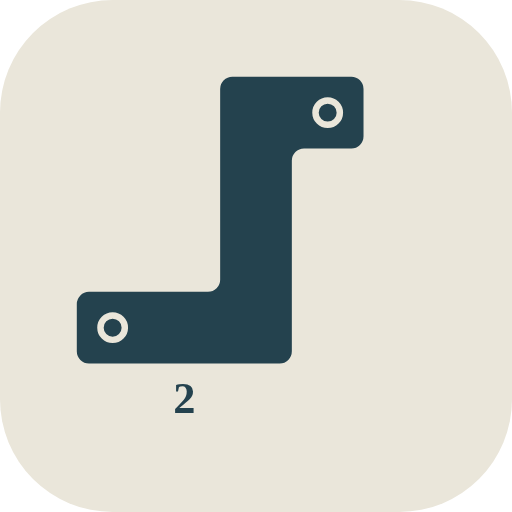
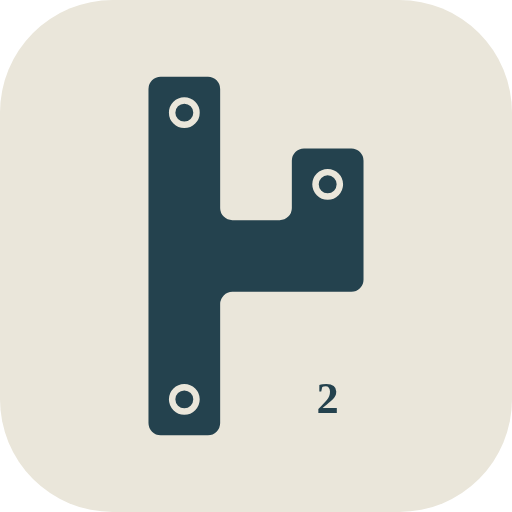
rill: tributaries, not a snake
A tree with two springs is a bare path, and the first boards read as
exactly that — one long corridor with an endpoint at each end, which
is a strange thing to call water. The rules already allowed branching;
the grower just priced forks too dearly. Now it grows toward a spring
quota (three or more, scaled with the board), welcomes a fork while
short of it, and the scorer rewards springs spread wide — so the rill
is a watershed of tributaries joining one flow, and the readings
triangulate between springheads instead of asking which of two ends
is nearer. Launcher mark and the first two rules diagrams redrawn as
the branchy shapes they teach, verified as always. Uniqueness re-run:
12 of 12 small-book boards brute-force confirmed.

Claude-Session: https://claude.ai/code/session_01DvYAhixLN4kDYLo16jZxbQ

Changed region(s): [[0.125, 0.125, 0.7188, 0.875], [0.625, 0.75, 0.6562, 0.8125]]

diff --git a/rill/index.html b/rill/index.html
@@ -14,7 +14,7 @@
 <meta name="theme-color" content="#131a1d" media="(prefers-color-scheme: dark)" />
 <title>Rill</title>
 <meta name="description" content="Rill — a spring-hunting puzzle. Water may run right past a number; it can never stop nearby. Every board generated on your phone and proved solvable without guessing." />
[2 lines of base64/hex data omitted]
 <link rel="manifest" href="manifest.webmanifest" />
 <link rel="apple-touch-icon" href="icon-180.png" />
 <style>
@@ -837,7 +837,7 @@ function RillCore() {
      place, which keeps it loop-free by construction. Long runs are
      preferred to stubs, so springs stay scarce; a gentle pull toward
      untouched rows and columns spreads the water over the board. */
-  function growVein(G, rnd, target) {
+  function growVein(G, rnd, target, targetSprings) {
     var N = G.N;
     var inTree = new Uint8Array(N * N);
     var touch = new Uint8Array(N * N);
@@ -852,12 +852,18 @@ function RillCore() {
 
     var guard = 0;
     while (size < target && guard++ < 4000) {
+      /* springs so far: tree cells with at most one tree neighbour */
+      var springsNow = 0;
+      for (var q = 0; q < N * N; q++) if (inTree[q] && deg[q] <= 1) springsNow++;
+      /* short of springs, a fork is welcome; at quota it costs dearly */
+      var forkCost = springsNow < targetSprings ? 0.35 : 3.2;
+
       var cands = [], scores = [], best = 1e9;
       for (var k = 0; k < N * N; k++) {
         if (inTree[k] || touch[k] !== 1) continue;
         var nbk = neighbors(G, k), parent = -1;
         for (var j = 0; j < nbk.length; j++) if (inTree[nbk[j]]) parent = nbk[j];
-        var branchy = deg[parent] >= 2 ? 2.2 : 0;
+        var branchy = deg[parent] >= 2 ? forkCost : 0;
         var s = branchy + (rowN[(k / N) | 0] + colN[k % N]) * 0.26 + rnd() * 1.3;
         cands.push(k); scores.push(s);
         if (s < best) best = s;
@@ -944,8 +950,19 @@ function RillCore() {
     var open = fin.firstGain / cells;
     var chain = Math.min(1, fin.rounds / 22);
 
+    var springs = veinInfo(G, new Set(regionArr)).springs, minPair = 1e9;
+    for (var a = 0; a < springs.length; a++) {
+      for (var b = a + 1; b < springs.length; b++) {
+        var d = Math.abs(((springs[a] / N) | 0) - ((springs[b] / N) | 0)) +
+                Math.abs((springs[a] % N) - (springs[b] % N));
+        if (d < minPair) minPair = d;
+      }
+    }
+    var spreadF = Math.min(1, minPair / N);
+
     return {
-      score: -5.2 * open + 2.2 * chain - 2.6 * clueF + 0.9 * (deep / n) + 2.0,
+      score: -5.2 * open + 2.2 * chain - 2.6 * clueF + 0.9 * (deep / n)
+             + 1.2 * spreadF + 2.0,
       level: fin.level, hard: fin.hard, order: fin.order,
       first: fin.firstGain, rounds: fin.rounds, clueCount: n
     };
@@ -965,14 +982,16 @@ function RillCore() {
     var pass = 0;
     for (;;) {
     for (var t = 0; t < veins; t++) {
-      var density = 0.22 + rnd() * 0.08;
+      var density = 0.24 + rnd() * 0.08;
       var target = Math.round(N * N * density);
-      var region = growVein(G, rnd, target);
+      var targetSprings = 3 + ((rnd() * (N / 3.5)) | 0);
+      var region = growVein(G, rnd, target, targetSprings);
       if (region.size < Math.max(4, target * 0.75)) continue;
 
       var info = veinInfo(G, region);
-      if (!info.ok || info.springs.length < 2) continue;
-      if (info.springs.length > Math.max(3, Math.round(region.size * 0.30))) continue;
+      /* a two-spring tree is a bare path; the rill wants tributaries */
+      if (!info.ok || info.springs.length < 3) continue;
+      if (info.springs.length > Math.max(4, Math.round(region.size * 0.34))) continue;
 
       /* the rill must touch every row and column */
       var rw = new Array(N).fill(0), cw = new Array(N).fill(0);
@@ -2517,17 +2536,17 @@ function RillCore() {
     row("One rill, never looping",
         "All the water is one vein, and between any two water cells there is exactly one way along it.",
         function (cv) {
-          var set = new Set([0, 5, 10, 11, 12, 17, 22, 23, 24]);
+          var set = new Set([10, 11, 12, 7, 2, 13, 17, 22]);
           paint(cv, { N: 5, bleed: true, showGrid: true,
             isWater: function (r, c) { return set.has(r * 5 + c); } });
         });
     row("Where it stops, a spring",
         "Every end of the rill is a springhead welling out of the ground.",
         function (cv) {
-          var set = new Set([1, 6, 11, 12, 13, 8]);
+          var set = new Set([1, 6, 11, 16, 21, 12, 13, 8]);
           paint(cv, { N: 5, bleed: true, showGrid: true,
             isWater: function (r, c) { return set.has(r * 5 + c); },
-            isSpring: function (r, c) { var k = r * 5 + c; return k === 1 || k === 8; } });
+            isSpring: function (r, c) { var k = r * 5 + c; return k === 1 || k === 8 || k === 21; } });
         });
     row("The number hears the nearest spring",
         "Exactly that many steps away, counting across and down. Water may run right past a number — it just cannot stop nearby.",

diff --git a/rill/sw.js b/rill/sw.js
@@ -11,7 +11,7 @@
  *
  * Bump CACHE when the shell changes; the old one is deleted on activate.
  */
-var CACHE = "rill-v1";
+var CACHE = "rill-v2";
 var SHELL = [
   "./",
   "./index.html",

diff --git a/README.md b/README.md
@@ -88,7 +88,10 @@ mock-up. Pure static (no build step); served by GitHub Pages with `.nojekyll`.
   board, the verbs and the exactness, and changes what the number hears.
   Shade the rill — one connected vein that never loops, so between any two
   water cells there is exactly one way along it — and wherever the rill
-  stops, a spring wells up. Every number is the exact taxicab distance to
+  stops, a spring wells up. A rill is never a bare snake: boards are grown
+  with three or more springs spread wide, tributaries joining one flow, so
+  the readings triangulate between springheads instead of asking which of
+  two ends is nearer. Every number is the exact taxicab distance to
   the nearest SPRING. So a number no longer empties anything: water may run
   right past it — it just cannot stop nearby. The reading's reach flips
   from "forced empty" to "forced flowing": inside it every water cell must
